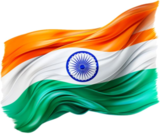
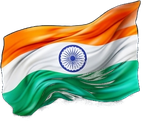
Replace footer flag with new waving flag image

diff --git a/about.html b/about.html
@@ -1154,7 +1154,7 @@
           <span>Trivandrum, Kerala</span>
         </div>
         <div class="footer-flag">
-          <img src="assets/primohome/flag-india.png" alt="Flag of India" width="76" height="64" />
+          <img src="assets/primohome/flag-india.png?v=2" alt="Flag of India" width="76" height="57" />
           <span>Proudly Indian<br>Proudly Serving Kerala</span>
         </div>
       </div>

diff --git a/index.html b/index.html
@@ -1170,7 +1170,7 @@
           <span>Trivandrum, Kerala</span>
         </div>
         <div class="footer-flag">
-          <img src="assets/primohome/flag-india.png" alt="Flag of India" width="76" height="64" />
+          <img src="assets/primohome/flag-india.png?v=2" alt="Flag of India" width="76" height="57" />
           <span>Proudly Indian<br>Proudly Serving Kerala</span>
         </div>
       </div>

diff --git a/pricing.html b/pricing.html
@@ -1087,7 +1087,7 @@
           <span>Trivandrum, Kerala</span>
         </div>
         <div class="footer-flag">
-          <img src="assets/primohome/flag-india.png" alt="Flag of India" width="76" height="64" />
+          <img src="assets/primohome/flag-india.png?v=2" alt="Flag of India" width="76" height="57" />
           <span>Proudly Indian<br>Proudly Serving Kerala</span>
         </div>
       </div>
